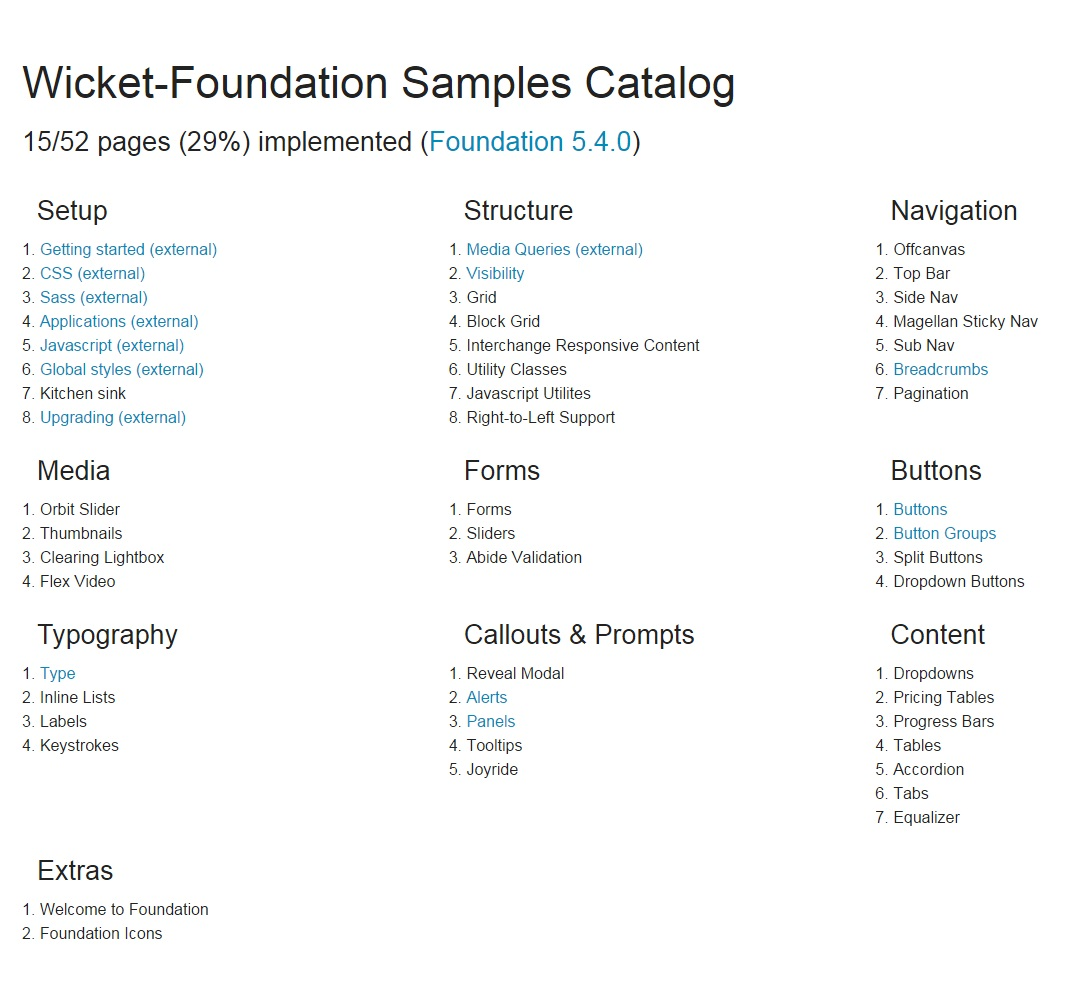
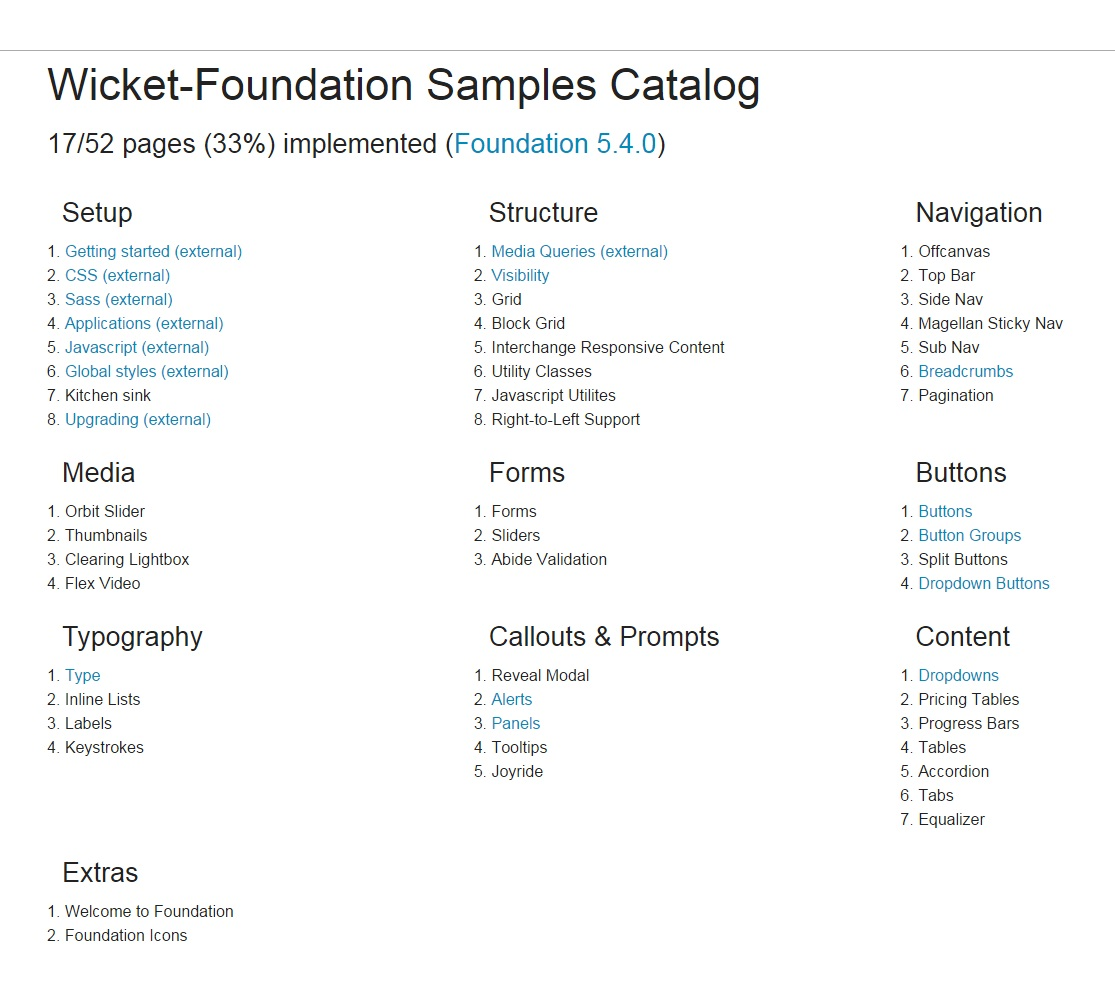
Updated catalog page status and screenshot.

diff --git a/wicket-foundation-samples/src/main/java/com/iluwatar/CatalogPage.html b/wicket-foundation-samples/src/main/java/com/iluwatar/CatalogPage.html
@@ -6,7 +6,7 @@
 		<h1>Wicket-Foundation Samples Catalog</h1>
 	</div>
     <div class="row">
-      <h3>15/52 pages (29%) implemented (<a href="http://foundation.zurb.com/" target="blank">Foundation 5.4.0</a>)</h3>
+      <h3>17/52 pages (33%) implemented (<a href="http://foundation.zurb.com/" target="blank">Foundation 5.4.0</a>)</h3>
     </div>
 
     <p>
